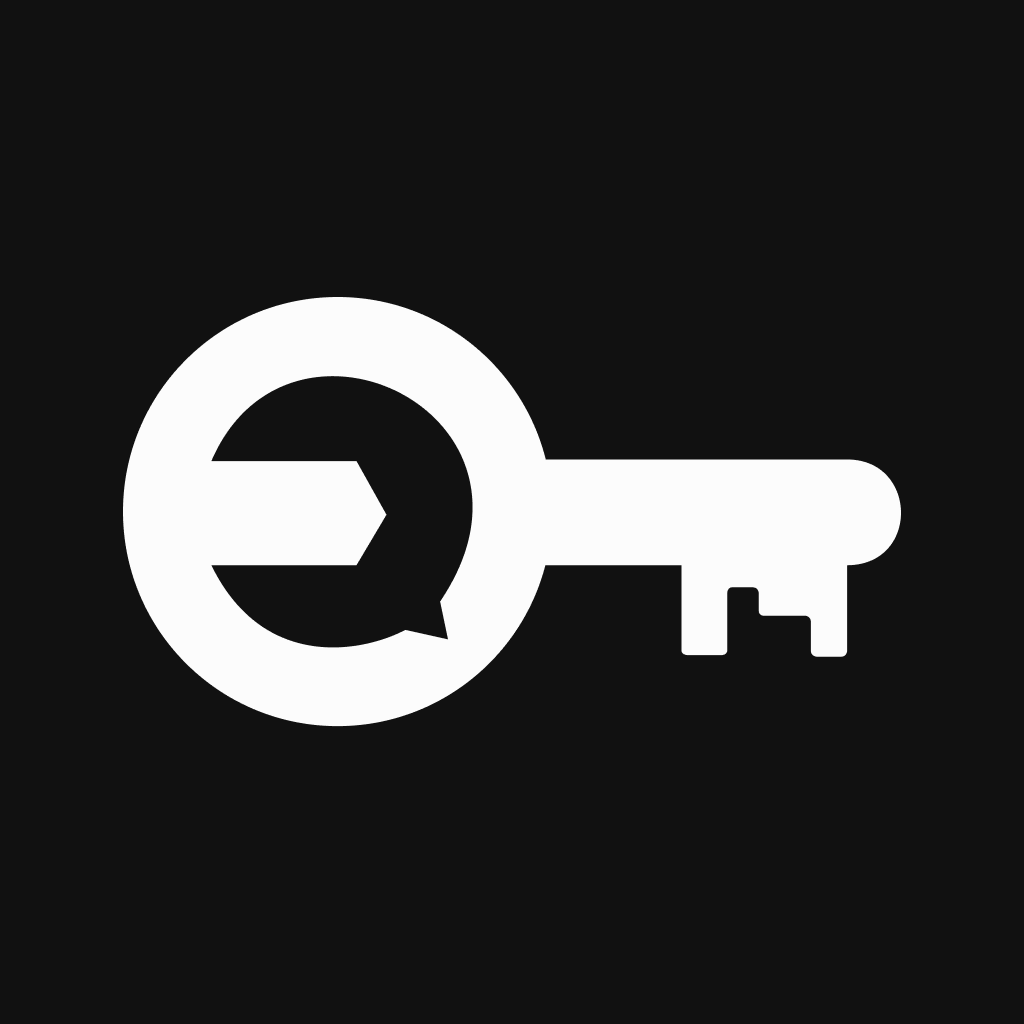
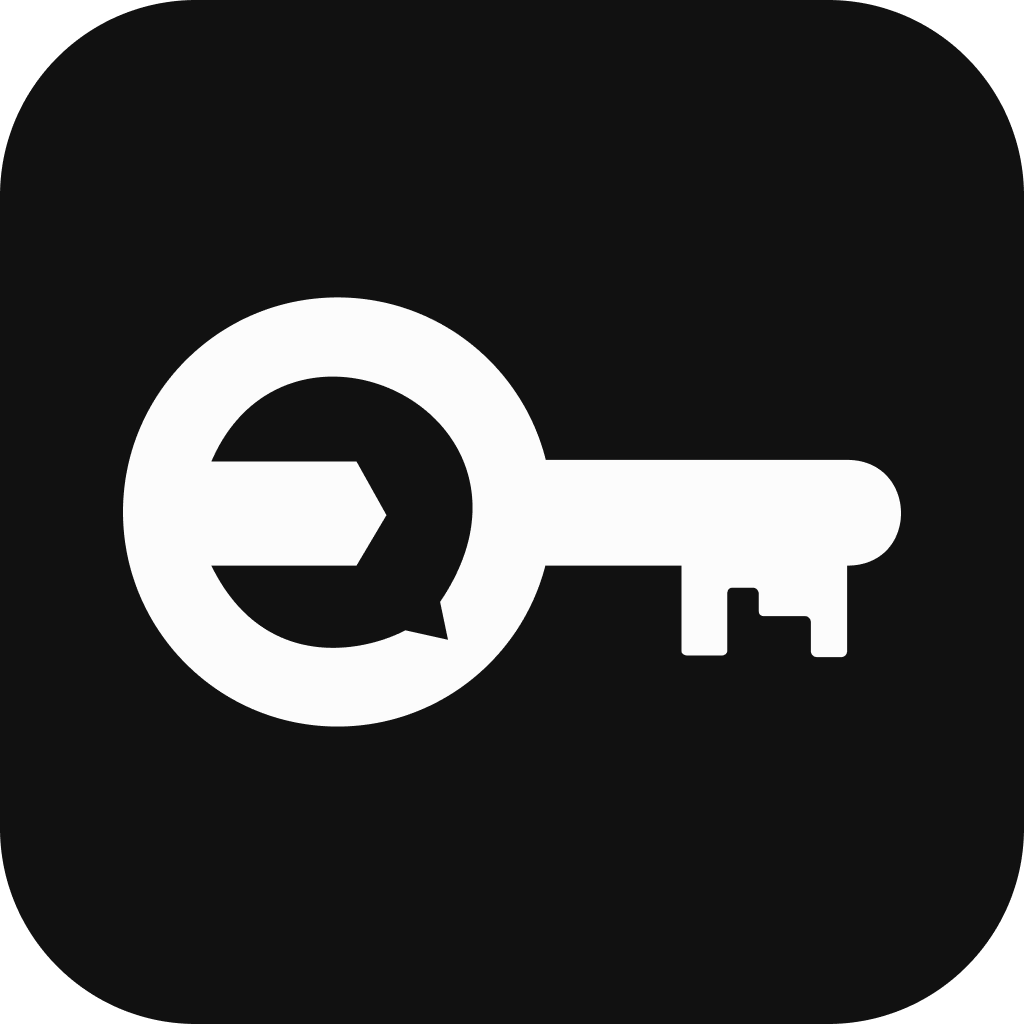
test: Add tests for the crypto utils

diff --git a/internal/utils/crypto/crypto_test.go b/internal/utils/crypto/crypto_test.go
@@ -1,0 +1,89 @@
+package crypto
+
+import (
+	"bytes"
+	"testing"
+)
+
+func TestEncryptGCM(t *testing.T) {
+	// given
+	encryptionKey := DerivePbkdf2From([]byte("testpassword"))
+	testCases := []struct {
+		Name string
+		Data []byte
+	}{
+		{Name: "with empty data", Data: []byte("")},
+		{Name: "with non-empty data", Data: []byte("testdata")},
+	}
+	for _, tc := range testCases {
+		t.Run(tc.Name, func(t *testing.T) {
+			// when
+			ciphertext := EncryptGCM(encryptionKey, tc.Data)
+
+			// then
+			decrypted, err := DecryptGCM(encryptionKey, ciphertext)
+			if err != nil {
+				t.Fatalf("expected nil error, got %v", err)
+			}
+			if !bytes.Equal(decrypted, tc.Data) {
+				t.Fatalf("expected %v, got %v", tc.Data, decrypted)
+			}
+		})
+	}
+}
+
+func TestDecryptGCM(t *testing.T) {
+	encryptionKey := DerivePbkdf2From([]byte("testpassword"))
+
+	testCases := []struct {
+		Name string
+		Data []byte
+	}{
+		{Name: "with empty data", Data: []byte("")},
+		{Name: "with non-empty data", Data: []byte("testdata")},
+	}
+	for _, tc := range testCases {
+		// given
+		ciphertext := EncryptGCM(encryptionKey, tc.Data)
+
+		// when
+		decrypted, err := DecryptGCM(encryptionKey, ciphertext)
+
+		// then
+		if err != nil {
+			t.Fatalf("expected nil error, got %v", err)
+		}
+		if !bytes.Equal(decrypted, tc.Data) {
+			t.Fatalf("expected %v, got %v", tc.Data, decrypted)
+		}
+	}
+}
+
+func TestDerivePbkdf2From(t *testing.T) {
+	t.Run("should return the output that differs from input", func(t *testing.T) {
+		// given
+		password := []byte("testpassword")
+
+		// when
+		encryptionKey := DerivePbkdf2From(password)
+
+		// then
+		if bytes.Equal(encryptionKey, password) {
+			t.Fatal("output the same as input")
+		}
+	})
+
+	t.Run("should not be reversable", func(t *testing.T) {
+		// given
+		password := []byte("testpassword")
+
+		// when
+		encryptionKey := DerivePbkdf2From(password)
+		reversed := DerivePbkdf2From(encryptionKey)
+
+		// then
+		if bytes.Equal(reversed, password) {
+			t.Fatal("the function is reversable")
+		}
+	})
+}

diff --git a/internal/servers/udp/udp_server.go b/internal/servers/udp/udp_server.go
@@ -10,7 +10,7 @@ import (
 
 	"remclip/internal/servers"
 	"remclip/internal/services/clipboard"
-	"remclip/internal/utils"
+	"remclip/internal/utils/crypto"
 
 	"github.com/go-playground/validator/v10"
 )
@@ -47,11 +47,11 @@ func (s *UDPServer) Start(ctx context.Context) error {
 			return err
 		}
 
-		s.handleSetClipboardMessage(buf[:n])
+		s.handleSetClipboardMessage(ctx, buf[:n])
 	}
 }
 
-func (s *UDPServer) handleSetClipboardMessage(message []byte) {
+func (s *UDPServer) handleSetClipboardMessage(ctx context.Context, message []byte) {
 	decryptedData, err := s.decryptBody(message)
 	if err != nil {
 		log.Println(err)
@@ -77,7 +77,7 @@ func (s *UDPServer) handleSetClipboardMessage(message []byte) {
 	s.clipboardService.SetClipboard(*data.Text)
 
 	if data.ExpiresIn != nil {
-		s.clipboardService.ScheduleClearClipboard(context.TODO(), uint(*data.ExpiresIn))
+		s.clipboardService.ScheduleClearClipboard(ctx, uint(*data.ExpiresIn))
 	}
 }
 
@@ -93,7 +93,7 @@ func (s *UDPServer) decryptBody(message []byte) ([]byte, error) {
 		return nil, err
 	}
 
-	decryptedData, err := utils.DecryptGCM(s.encryptionKey, []byte(*body.Data))
+	decryptedData, err := crypto.DecryptGCM(s.encryptionKey, []byte(*body.Data))
 	if err != nil {
 		return nil, err
 	}

diff --git a/internal/servers/udp/udp_server_test.go b/internal/servers/udp/udp_server_test.go
@@ -5,7 +5,7 @@ import (
 	"encoding/json"
 	"fmt"
 	"net"
-	"remclip/internal/utils"
+	"remclip/internal/utils/crypto"
 	"testing"
 	"time"
 )
@@ -52,7 +52,7 @@ func (s *fakeClipboardService) ScheduleClearClipboardHasBeenCalled() bool {
 func TestUDPServer(t *testing.T) {
 	port := 9123
 	connectionString := fmt.Sprintf(":%d", port)
-	encryptionKey := utils.DerivePbkdf2From([]byte("testpassword"))
+	encryptionKey := crypto.DerivePbkdf2From([]byte("testpassword"))
 
 	t.Run("should set clipboard and schedule clear after the request", func(t *testing.T) {
 		// given
@@ -193,7 +193,7 @@ func sendRequest(
 	if err != nil {
 		t.Fatalf("cannot marshal the set clipboard body: %v", err)
 	}
-	encryptedSetClipboardBody := utils.EncryptGCM(encryptionKey, encodedData)
+	encryptedSetClipboardBody := crypto.EncryptGCM(encryptionKey, encodedData)
 	requestBody := map[string]string{
 		"data": string(encryptedSetClipboardBody),
 	}

diff --git a/main.go b/main.go
@@ -15,7 +15,7 @@ import (
 	"remclip/internal/servers/udp"
 	"remclip/internal/services/clipboard"
 	"remclip/internal/services/clipboardapi"
-	"remclip/internal/utils"
+	"remclip/internal/utils/crypto"
 )
 
 const (
@@ -49,7 +49,7 @@ func startServer(
 		a.SendNotification(fyne.NewNotification("Invalid password", "Password can't be empty"))
 		return
 	}
-	encryptionKey := utils.DerivePbkdf2From([]byte(password))
+	encryptionKey := crypto.DerivePbkdf2From([]byte(password))
 
 	port := pref.Int("port")
 

diff --git a/internal/utils/crypto/crypto.go b/internal/utils/crypto/crypto.go
@@ -1,4 +1,4 @@
-package utils
+package crypto
 
 import (
 	"crypto/aes"
@@ -10,9 +10,11 @@ import (
 	"golang.org/x/crypto/pbkdf2"
 )
 
-const pbkdf2Salt = "super-secret-vaulty-salt"
-const pbkdf2Iterations = 600000
-const pbkdf2KeyLen = 32
+const (
+	pbkdf2Salt       = "super-secret-vaulty-salt"
+	pbkdf2Iterations = 600000
+	pbkdf2KeyLen     = 32
+)
 
 // Derives pbkdf2 key from the specified password
 func DerivePbkdf2From(password []byte) []byte {

diff --git a/cmd/remclip_cli/remclip_cli.go b/cmd/remclip_cli/remclip_cli.go
@@ -15,7 +15,7 @@ import (
 	"remclip/internal/servers/udp"
 	"remclip/internal/services/clipboard"
 	"remclip/internal/services/clipboardapi"
-	"remclip/internal/utils"
+	"remclip/internal/utils/crypto"
 )
 
 const (
@@ -92,7 +92,7 @@ func main() {
 	}
 	fmt.Println()
 
-	encryptionKey := utils.DerivePbkdf2From(password)
+	encryptionKey := crypto.DerivePbkdf2From(password)
 
 	var server servers.Server
 	switch config.ServerType {

diff --git a/README.md b/README.md
@@ -1,3 +1,5 @@
+<img align="left" width="80" height="80" src="assets/icon.png" alt="App icon" />
+
 # Vaulty Remote Clipboard - copy your passwords from the Vaulty mobile app to your computer
 
 The main philosophy of the [Vaulty](https://github.com/astsu-dev/vaulty-mobile) mobile application is to store your passwords only on your smartphone from the security purposes.
